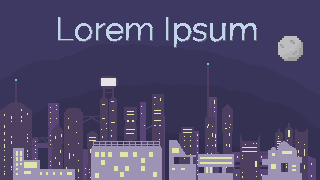
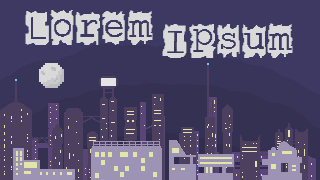
cositas

Changed region(s): [[0.0625, 0.0556, 0.9688, 0.3611], [0.125, 0.3333, 0.2188, 0.5]]

diff --git a/Lorem Ipsum/MainMenu.cpp b/Lorem Ipsum/MainMenu.cpp
@@ -23,36 +23,155 @@ void MainMenu::init() {
 	Texture* background = game_->getGame()->getTextureMngr()->getTexture(Resources::MainMenuBG);
 	camera_->setLimitX(background->getWidth());
 	camera_->setLimitY(background->getHeight());
-	Entity* e2 = entityManager_->addEntity(0);
+	Entity* bG = entityManager_->addEntity(0);
+	bG->addComponent<Transform>(0, 0, game_->getGame()->getWindowWidth(), game_->getGame()->getWindowHeight());
+	auto anim = bG->addComponent<Animator<int>>();
+	createBackground();
 
-	e2->addComponent<Transform>(0, 0, game_->getGame()->getWindowWidth(), game_->getGame()->getWindowHeight());
-	e2->addComponent<Sprite>(background);
-	
-	Entity* e = entityManager_->addEntity(1);
+	Entity* e = entityManager_->addEntity(4);
 	int w = game_->getGame()->getWindowWidth() / 3;
 	int h = game_->getGame()->getWindowHeight() / 10;
-	Transform* etr = e->addComponent<Transform>(game_->getGame()->getWindowWidth() / 2 - w / 2, game_->getGame()->getWindowHeight() / 2 - h / 2, w, h);
-	//e->addComponent<Rectangle>(SDL_Color{ COLOR(0xccccccff) });
+	Transform* etr = e->addComponent<Transform>(game_->getGame()->getWindowWidth() / 2 - w / 2, game_->getGame()->getWindowHeight(), w, h);
+
+	Vector2D finishPlayPos(game_->getGame()->getWindowWidth() / 2 - w / 2, game_->getGame()->getWindowHeight() / 2 - h / 2);
+	Vector2D finishEditorPos(game_->getGame()->getWindowWidth() / 2 - w / 2, game_->getGame()->getWindowHeight() / 2 + h);
+
 	e->addComponent<Sprite>(game_->getGame()->getTextureMngr()->getTexture(Resources::MainMenuBut));
-	string buttonText = "PLAY O JUGAR";
-	e->addComponent<Text>(buttonText, etr->getPos() + Vector2D(etr->getW() / 2 - (buttonText.size() * 24 / 4), etr->getH() / 2 - 12), -1, Resources::RobotoTest24, 0)->setColor(120, 127, 149);
+	string buttonText = "";
+	Text* t1 = e->addComponent<Text>(buttonText, finishPlayPos + Vector2D(20, etr->getH() / 2 - 17), -1, Resources::RobotoTest24, 0);
 	auto but = e->addComponent<ButtonOneParametter<LoremIpsum*>>(std::function<void(LoremIpsum*)>([](LoremIpsum* g) { g->getStateMachine()->PlayGame(); }), game_);
 	but->setMouseOverCallback([e]() {GETCMP2(e, Sprite)->setTint(220,220,220); });
 	but->setMouseOutCallback([e](){GETCMP2(e, Sprite)->clearTint(); });
 	
-	Entity* e3 = entityManager_->addEntity(2);
-	etr = e3->addComponent<Transform>(game_->getGame()->getWindowWidth() / 2 - w / 2, game_->getGame()->getWindowHeight() / 2 + h , w, h);
+	Entity* e3 = entityManager_->addEntity(4);
+	etr = e3->addComponent<Transform>(game_->getGame()->getWindowWidth() / 2 - w / 2, game_->getGame()->getWindowHeight(), w, h);
 	e3->addComponent<Sprite>(game_->getGame()->getTextureMngr()->getTexture(Resources::MainMenuBut));
 	but = e3->addComponent<ButtonOneParametter<LoremIpsum*>>(std::function<void(LoremIpsum*)>([](LoremIpsum* g) { g->getStateMachine()->PlayEditor(); }), game_);
-	buttonText = "Dialog Editor";
-	e3->addComponent<Text>(buttonText, etr->getPos() + Vector2D(etr->getW() / 2 - (buttonText.size() * 24 / 4), etr->getH() / 2 - 12), -1, Resources::RobotoTest24, 0)->setColor(120, 127, 149);
+	buttonText = "";
+	Text* t2 = e3->addComponent<Text>(buttonText, finishEditorPos + Vector2D(20, etr->getH() / 2 - 17), -1, Resources::RobotoTest24, 0);
 	but->setMouseOverCallback([e3]() {GETCMP2(e3, Sprite)->setTint(220, 220, 220); });
 	but->setMouseOutCallback([e3]() {GETCMP2(e3, Sprite)->clearTint(); });
+
+
+	auto tween = e->addComponent<Tween>(finishPlayPos, 20);
+	auto tween2 = e3->addComponent<Tween>(finishEditorPos, 20);
+	tween->setFunc([t1, t2, tween2](Entity* e)
+	{
+		t1->setText("Comienza la historia");
+		t1->setColor(88,88,88);
+		tween2->GoToB();
+	}, nullptr);
+	tween2->setFunc([t2](Entity* e)
+	{
+		t2->setText("Dialog Editor");
+		t2->setColor(88, 88, 88);
+	}, nullptr);
+
+
+	anim->changeAnim(Resources::MainMenuAnim);
+	anim->setFinishFunc([tween](int a) {tween->GoToA(); }, 0);
 	
-
-
 	game_->getGame()->getAudioMngr()->playMusic(Resources::MTint, 0);
 	game_->getGame()->getAudioMngr()->nextMusic(Resources::MTloo, -1);
 	game_->getGame()->getAudioMngr()->setMusicVolume(15);
 	game_->getGame()->getAudioMngr()->setChannelVolume(10);
+}
+void MainMenu::createBackground()
+{
+	double sp1 = 1.5;
+	double sp2 = 1;
+	double sp3 = 0.5;
+	Entity* smoke = entityManager_->addEntity(2);
+	smoke->addComponent<Transform>(0, 0, game_->getGame()->getWindowWidth(), game_->getGame()->getWindowHeight());
+	smoke->addComponent<Animator<int>>()->changeAnim(Resources::AnimID::Humo1Anim);
+
+	smoke = entityManager_->addEntity(1);
+	smoke->addComponent<Transform>(0, -50, game_->getGame()->getWindowWidth()*2, game_->getGame()->getWindowHeight());
+	smoke->addComponent<Animator<int>>()->changeAnim(Resources::AnimID::Humo1Anim);
+
+	buildingLine3 = entityManager_->addEntity(0);
+	buildingLine3->setUI(false);
+	Texture* background3 = game_->getGame()->getTextureMngr()->getTexture(Resources::MainMenuBG3);
+	auto tr3 = buildingLine3->addComponent<Transform>(0, 0,
+		background3->getWidth()*4, game_->getGame()->getWindowHeight());
+	buildingLine3->addComponent<Sprite>(background3);
+	tr3->setVelX(-sp3);
+	buildings.push_back(buildingLine3);
+
+	buildingLine2 = entityManager_->addEntity(1);
+	buildingLine2->setUI(false);
+	Texture* background2 = game_->getGame()->getTextureMngr()->getTexture(Resources::MainMenuBG2);
+	auto tr2 = buildingLine2->addComponent<Transform>(0, 0,
+		background2->getWidth()*4, game_->getGame()->getWindowHeight());
+	buildingLine2->addComponent<Sprite>(background2);
+	tr2->setVelX(-sp2);
+	buildings.push_back(buildingLine2);
+
+
+	buildingLine1 = entityManager_->addEntity(2);
+	buildingLine1->setUI(false);
+	Texture* background1 = game_->getGame()->getTextureMngr()->getTexture(Resources::MainMenuBG1);
+	auto tr1 = buildingLine1->addComponent<Transform>(0, 4,
+		background1->getWidth()*4, game_->getGame()->getWindowHeight());
+	buildingLine1->addComponent<Sprite>(background1);
+	tr1->setVelX(-sp1);
+	buildings.push_back(buildingLine1);
+
+
+
+
+	buildingLine3r = entityManager_->addEntity(0);
+	buildingLine3r->setUI(false);
+	tr3 = buildingLine3r->addComponent<Transform>(background3->getWidth() * 4 - 30, 0,
+	background3->getWidth() * 4, game_->getGame()->getWindowHeight());
+	buildingLine3r->addComponent<Sprite>(background3);
+	tr3->setVelX(-sp3);
+	buildings.push_back(buildingLine3r);
+
+
+	buildingLine2r = entityManager_->addEntity(1);
+	buildingLine2r->setUI(false);
+	tr2 = buildingLine2r->addComponent<Transform>(background2->getWidth() * 4 - 30, 0,
+		background2->getWidth() * 4, game_->getGame()->getWindowHeight());
+	buildingLine2r->addComponent<Sprite>(background2);
+	tr2->setVelX(-sp2);
+	buildings.push_back(buildingLine2r);
+
+
+	buildingLine1r = entityManager_->addEntity(2);
+	buildingLine1r->setUI(false);
+	tr1 = buildingLine1r->addComponent<Transform>(background1->getWidth() * 4 - 30, 4,
+		background1->getWidth() * 4, game_->getGame()->getWindowHeight());
+	buildingLine1r->addComponent<Sprite>(background1);
+	tr1->setVelX(-sp1);
+	buildings.push_back(buildingLine1r);
+	for (auto e : buildings)
+		e->getComponent<Sprite>(ecs::Sprite)->ignoreCamera(1);
+
+}
+
+void MainMenu::update()
+{
+	if (game_->getGame()->getTime()  > lastMove + speed)
+	{
+		Transform* tr;
+		for (auto e : buildings)
+		{
+			tr = e->getComponent<Transform>(ecs::Transform);
+			tr->setPosX(tr->getPos().getX() + tr->getVel().getX());
+			if (tr->getPos().getX() + tr->getW() < 50)
+				tr->setPosX(tr->getW() - 50);
+		}
+		lastMove = game_->getGame()->getTime();
+	}
+	if (InputHandler::instance()->isKeyDown(SDLK_UP))
+	{
+		
+	};
+	
+	if (InputHandler::instance()->isKeyDown(SDLK_DOWN))
+	{
+
+	}
+	State::update();
 }

diff --git a/Lorem Ipsum/StoryManager.cpp b/Lorem Ipsum/StoryManager.cpp
@@ -37,6 +37,7 @@ Clue::Clue(Resources::ClueInfo info)
 	placed_ = false;
 	entity_ = nullptr;
 }
+
 void Actor::addDialog(Dialog*d, bool active)
 {
 	if(entity_==nullptr||!entity_->hasComponent(ecs::DialogComponent))return;
@@ -44,7 +45,6 @@ void Actor::addDialog(Dialog*d, bool active)
 	dial->addDialog(d, active); 
 	GETCMP2(entity_, Interactable)->setCallback([](Entity* e, Entity* e2) {GETCMP2(e2, DialogComponent)->interact();},entity_);
 }
-
 
 Actor::Actor(StoryManager* sm, Resources::ActorInfo info, Vector2D pos, int w, int h)
 {
@@ -230,7 +230,7 @@ Entity* StoryManager::createPhone(EntityManager* EM, LoremIpsum* loremIpsum)
 	mobTr->setWH(1080 / 5.0, 720 / 2.0);
 	double offset = mobTr->getW() / 16.0;
 
-	mobTr->setPos(loremIpsum->getGame()->getWindowWidth() - mobTr->getW() - 60, loremIpsum->getGame()->getWindowHeight());
+	mobTr->setPos(loremIpsum->getGame()->getWindowWidth() - mobTr->getW() - 60, loremIpsum->getGame()->getWindowHeight()-35);
 	Phone* mobileComp = mobile->addComponent<Phone>(this);
 	mobile->addComponent<Sprite>(textureMngr->getTexture(Resources::PhoneOff));
 	auto tween = mobile->addComponent<Tween>(mobTr->getPos().getX(), loremIpsum->getGame()->getWindowHeight() - mobTr->getH(), 10, mobTr->getW(), mobTr->getH());
@@ -275,12 +275,14 @@ Entity* StoryManager::createPhone(EntityManager* EM, LoremIpsum* loremIpsum)
 			icon->addComponent<ButtonOneParametter<LoremIpsum*>>([i, anim](LoremIpsum* game)
 				{
 					game->getStoryManager()->getPlayer()->getComponent<PlayerKBCtrl>(ecs::PlayerKBCtrl)->resetTarget();
+					anim->setEnabled(true);
 					if (anim->getAnim() == Resources::LastAnimID)
 					{
 						anim->changeAnim(Resources::AppPressedAnim);
 						anim->setFinishFunc([game, i, anim](Transform* t)
 							{
 								game->getStateMachine()->PlayApp((StateMachine::APPS)i, game->getStoryManager());
+								anim->setEnabled(false);
 							}, nullptr);
 					}
 					else anim->restartAnim();
@@ -293,6 +295,7 @@ Entity* StoryManager::createPhone(EntityManager* EM, LoremIpsum* loremIpsum)
 			icon->addComponent<ButtonOneParametter<LoremIpsum*>>(std::function<void(LoremIpsum*)>([anim, mobileComp](LoremIpsum* game)
 				{
 					game->getStoryManager()->getPlayer()->getComponent<PlayerKBCtrl>(ecs::PlayerKBCtrl)->resetTarget();
+					anim->setEnabled(true);
 					if (anim->getAnim() == Resources::LastAnimID)
 					{
 						anim->changeAnim(Resources::AppPressedAnim);
@@ -300,11 +303,12 @@ Entity* StoryManager::createPhone(EntityManager* EM, LoremIpsum* loremIpsum)
 							{
 								//ATENCION
 								//no funciona esta Lambda
-								//mobileComp->showContacts();
+								p->showContacts();
+								anim->setEnabled(false);
 							}, mobileComp);
 					}
 					else anim->restartAnim();
-					mobileComp->showContacts();
+					//mobileComp->showContacts();
 
 				}), loremIpsum);
 		}

diff --git a/Lorem Ipsum/Resources.cpp b/Lorem Ipsum/Resources.cpp
@@ -20,7 +20,10 @@ vector<Resources::ImageInfo> Resources::images_{
 			{ Airplanes, "../assets/images/airplanes.png" }, //
 			{ Star, "../assets/images/star.png" }, //
 			{ BlackHole, "../assets/images/black-hole.png" }, //
-			{ MainMenuBG, "../assets/images/MainMenuBG.png" }, //
+			{ MainMenuBG, "../assets/images/MenuBG.png" }, //
+			{ MainMenuBG1, "../assets/images/MenuBG1.png" }, //
+			{ MainMenuBG2, "../assets/images/MenuBG2.png" }, //
+			{ MainMenuBG3, "../assets/images/MenuBG3.png" }, //
 			{ MainMenuBut, "../assets/images/MainMenuBut.png" }, //
 			{ Pixel, "../assets/images/whiterect.png" }, //
 			{ CorkBG, "../assets/images/corkBG.jpg"},
@@ -60,7 +63,9 @@ vector<Resources::ImageInfo> Resources::images_{
 			{MacarenaPortrait, "../assets/images/PortraitMacarena.png"},
 			{BGEntradaOficinaSDL, "../assets/images/OficinaEntradaSDL.png"},
 			{clueTemplate, "../assets/images/clueTemplate.png"},
-			{TimelineBG, "../assets/images/timelineBG.png"}
+			{TimelineBG, "../assets/images/timelineBG.png"},
+			{Humo1SpriteSheet, "../assets/images/bgHumo1.png"},
+			{MainMenuSpriteSheet, "../assets/images/MenuBGAnim.png"}
 };
 
 
@@ -71,7 +76,9 @@ vector<Resources::AnimInfo> Resources::anims_{
 	{CatIdleAnim, CatIdle, 1,8,0,7,84, true},
 	{MacarenaCatIdleAnim, MacarenaIdle, 2,7,0,12,84,true},
 	{FadeInAnim, FadeSpriteSheet, 3,4,0,11,14,false},
-	{FadeOutAnim, FadeSpriteSheet, 3,3,3,6,14,false}
+	{FadeOutAnim, FadeSpriteSheet, 3,3,3,6,14,false},
+	{MainMenuAnim, MainMenuSpriteSheet, 3,4, 0,10, 84,false},
+	{Humo1Anim, Humo1SpriteSheet, 5,5,0,21,1000,true}
 };
 
 /*----------------------------------------------------*/
@@ -175,7 +182,7 @@ vector<Resources::InvestigableInfo> Resources::investigables_{
 
 vector<Resources::SceneInfo> Resources::scenes_
 {
-	SceneInfo(Resources::SceneID::EntradaDespacho, Resources::TextureID::BGEntradaOficinaSDL, Resources::TextureID::Blank, {150,150}, {{136,520}, {700,500},{840,410}}),
+	SceneInfo(Resources::SceneID::EntradaDespacho, Resources::TextureID::BGEntradaOficinaSDL, Resources::TextureID::Blank, {150,150}, {{136,500}, {700,500},{840,410}}),
 	SceneInfo(Resources::SceneID::Despacho, Resources::TextureID::Background, Resources::TextureID::Blank, {0, 0 }, {{0,0}}),
 	SceneInfo(Resources::SceneID::calleProfesor, Resources::TextureID::BlackHole,Resources::TextureID::Blank,{30,30 }, {{0,0}}),
 	SceneInfo(Resources::SceneID::Casa_Del_Profesor, Resources::TextureID::Background,Resources::TextureID::Blank, {100,180}, {{0,0}})

diff --git a/Lorem Ipsum/Sprite.cpp b/Lorem Ipsum/Sprite.cpp
@@ -15,10 +15,17 @@ void Sprite::draw()
 {
 	if (texture_ != nullptr)
 	{
-		if (game_->getCamera()->isObjectInCamera(tr_))
+		if (!ignoreCamera_ && game_->getCamera()->isObjectInCamera(tr_))
 		{
 			SDL_Rect destRect = game_->getCamera()->getRectToDraw(tr_, entity_->isUI());
 
+			texture_->setColorMod(r_, g_, b_);
+			texture_->render(destRect, tr_->getRot(), sourceRect_);
+			texture_->setColorMod(255, 255, 255);
+		}
+		else {
+		
+			SDL_Rect destRect = { tr_->getPos().getX(), tr_->getPos().getY(), tr_->getW(), tr_->getH() };
 			texture_->setColorMod(r_, g_, b_);
 			texture_->render(destRect, tr_->getRot(), sourceRect_);
 			texture_->setColorMod(255, 255, 255);

diff --git a/Lorem Ipsum/Resources.h b/Lorem Ipsum/Resources.h
@@ -26,6 +26,9 @@ public:
 		Star,
 		BlackHole,
 		MainMenuBG,
+		MainMenuBG1,
+		MainMenuBG2,
+		MainMenuBG3,
 		MainMenuBut,
 		LazaroPortrait,
 		MacarenaPortrait,
@@ -64,6 +67,8 @@ public:
 		DialogBox,
 		BGEntradaOficinaSDL,
 		FadeSpriteSheet,
+		MainMenuSpriteSheet,
+		Humo1SpriteSheet,
 		CatIdle
 	};
 	enum AudioId : std::size_t {
@@ -90,6 +95,10 @@ public:
 		MacarenaCatIdleAnim,
 		FadeInAnim,
 		FadeOutAnim,
+		MainMenuAnim,
+		Humo1Anim,
+
+		//ESTOS DEJARLOS AL FINAL
 		LastAnimID,
 		noAnim
 	};

diff --git a/Lorem Ipsum/MainMenu.h b/Lorem Ipsum/MainMenu.h
@@ -6,7 +6,19 @@ class MainMenu :
 public:
 	MainMenu(LoremIpsum* game);
 	virtual ~MainMenu() {  }
+	virtual void update() override;
 private:
 	void init();
+	void createBackground();
+	Entity* buildingLine3=nullptr;
+	Entity* buildingLine2=nullptr;
+	Entity* buildingLine1=nullptr;
+
+	Entity* buildingLine3r = nullptr;
+	Entity* buildingLine2r = nullptr;
+	Entity* buildingLine1r = nullptr;
+	vector<Entity*>buildings;
+	uint32_t lastMove = 0;
+	uint32_t speed = 15;
 };
 

diff --git a/Lorem Ipsum/Sprite.h b/Lorem Ipsum/Sprite.h
@@ -14,11 +14,13 @@ public:
 	inline void setSourceRect(SDL_Rect clip) { sourceRect_ = clip; };
 	inline void setTint(int r, int g, int b) { r_ = r; g_ = g; b_ = b; }
 	inline void clearTint() { r_ = 255; g_ = 255; b_ = 255; }
+	void ignoreCamera(bool b) { ignoreCamera_ = b; }
 private:
 	Transform* tr_;
 	Texture* texture_;
 	SDL_RendererFlip flip_ = SDL_FLIP_NONE;
 	SDL_Rect sourceRect_;
+	bool ignoreCamera_ = false;
 	int r_ = 255;
 	int g_ = 255;
 	int b_ = 255;

diff --git a/Lorem Ipsum/StateMachine.h b/Lorem Ipsum/StateMachine.h
@@ -56,9 +56,7 @@ public:
 	State* actualState() { return (!states_.empty()) ? states_.top() : nullptr; };
 	void destroyActual() {
 		if (actualState() != ch_){			//PROVISIONAL  ---	BUSCAR MEJOR MANERA DE GUARDAR CHINCHETARIO
-		  
 			if(actualState() != tl_)
-			//delete actualState()->getCamera();
 			delete actualState();
 			else actualState()->activate();
         }

diff --git a/Lorem Ipsum/Animator.h b/Lorem Ipsum/Animator.h
@@ -42,7 +42,6 @@ public:
 					else if(actualAnimInfo_->loop_)executeFinishCallback(finishArg_);
 				}
 				updateAnim();
-
 			}
 			SDL_Rect destRect = game_->getCamera()->getRectToDraw(transform_, entity_->isUI()); //destRect{ transform_->getPos().getX(), transform_->getPos().getY(), transform_->getW(), transform_->getH() };
 			text_->render(destRect, sourceRect_);

diff --git a/Lorem Ipsum/LoremIpsum.cpp b/Lorem Ipsum/LoremIpsum.cpp
@@ -42,7 +42,7 @@ void LoremIpsum::start()
 
 void LoremIpsum::initGame()
 {
-	game_ = SDLGame::init("YEAH, BOI", _WINDOW_WIDTH_, _WINDOW_HEIGHT_);
+	game_ = SDLGame::init("Lorem Ipsum", _WINDOW_WIDTH_, _WINDOW_HEIGHT_);
 	game_->setLoremIpsum(this);
 	SDL_ShowCursor(SDL_ENABLE);
 	states_ = new StateMachine(this);

diff --git a/Lorem Ipsum/PlayerMovement.cpp b/Lorem Ipsum/PlayerMovement.cpp
@@ -18,7 +18,7 @@ void PlayerMovement::update() {
 
 	Uint32 deltaTime = (game_->getTime() - frameTime) / 10;
 	frameTime = game_->getTime();
-	if (deltaTime > 20)deltaTime = 20;
+	if (deltaTime > 5)deltaTime = 5;
 	Vector2D v = tr_->getPos() + tr_->getVel() * deltaTime;
 	double x = v.getX();
 	if (x <= 0) {
